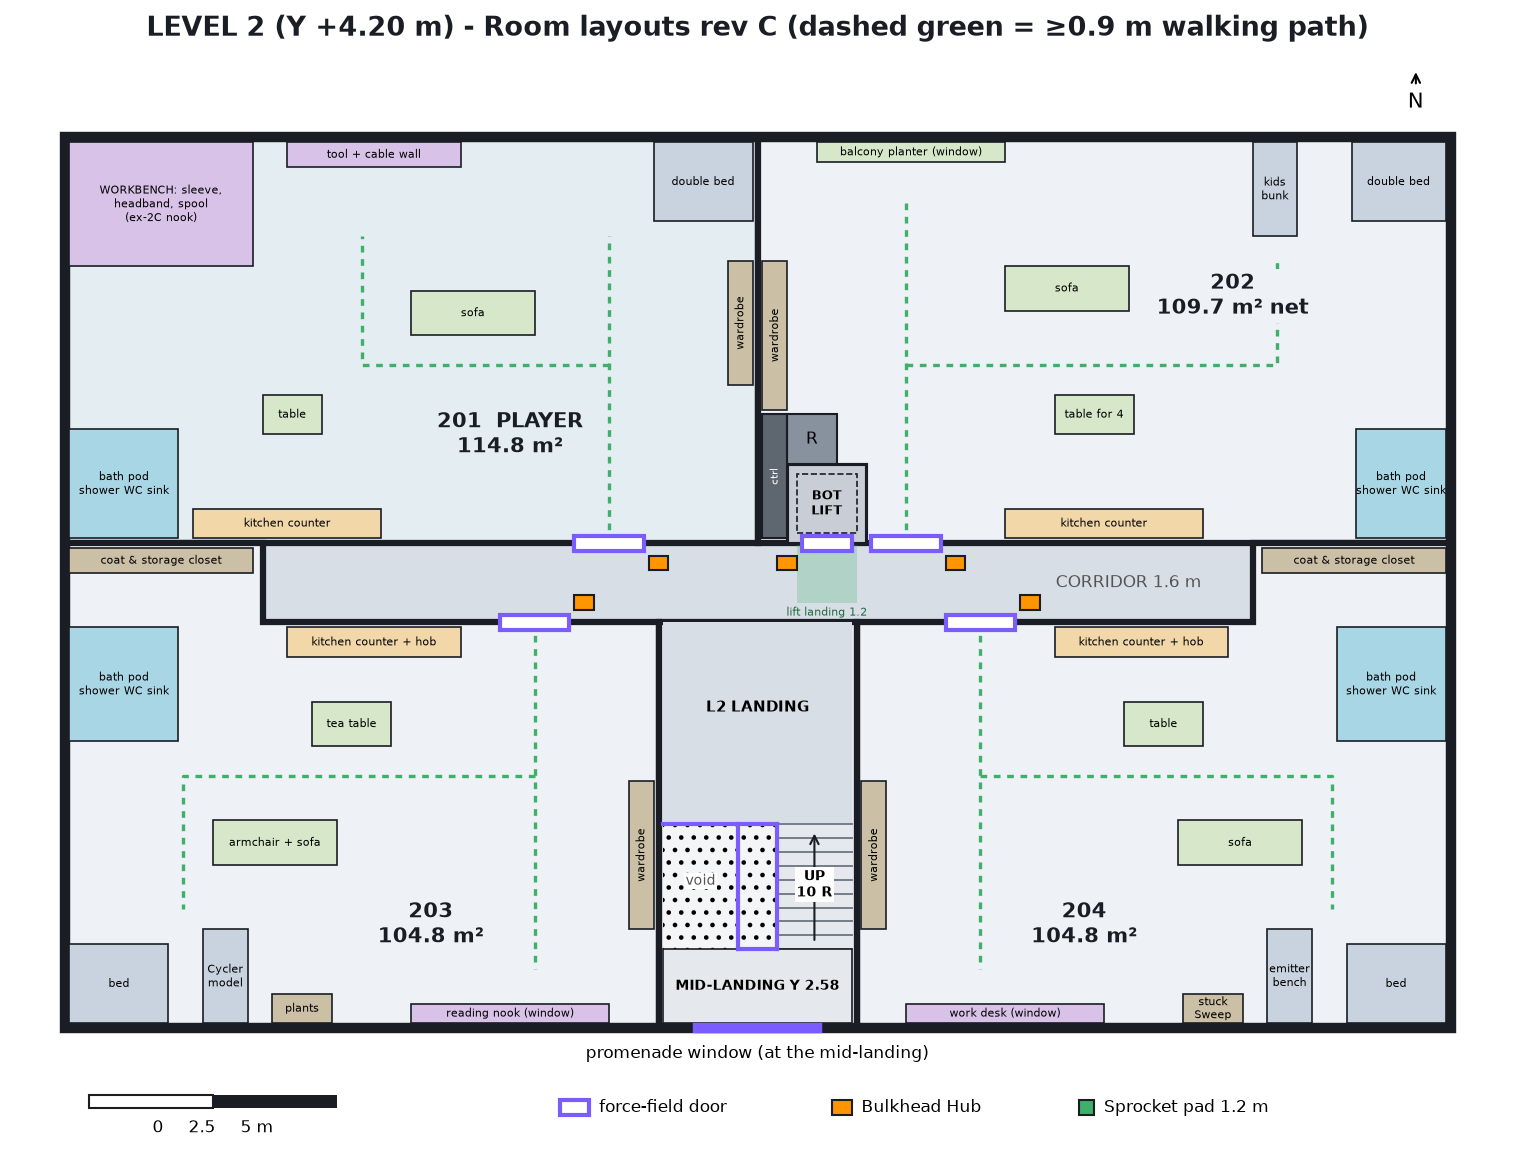
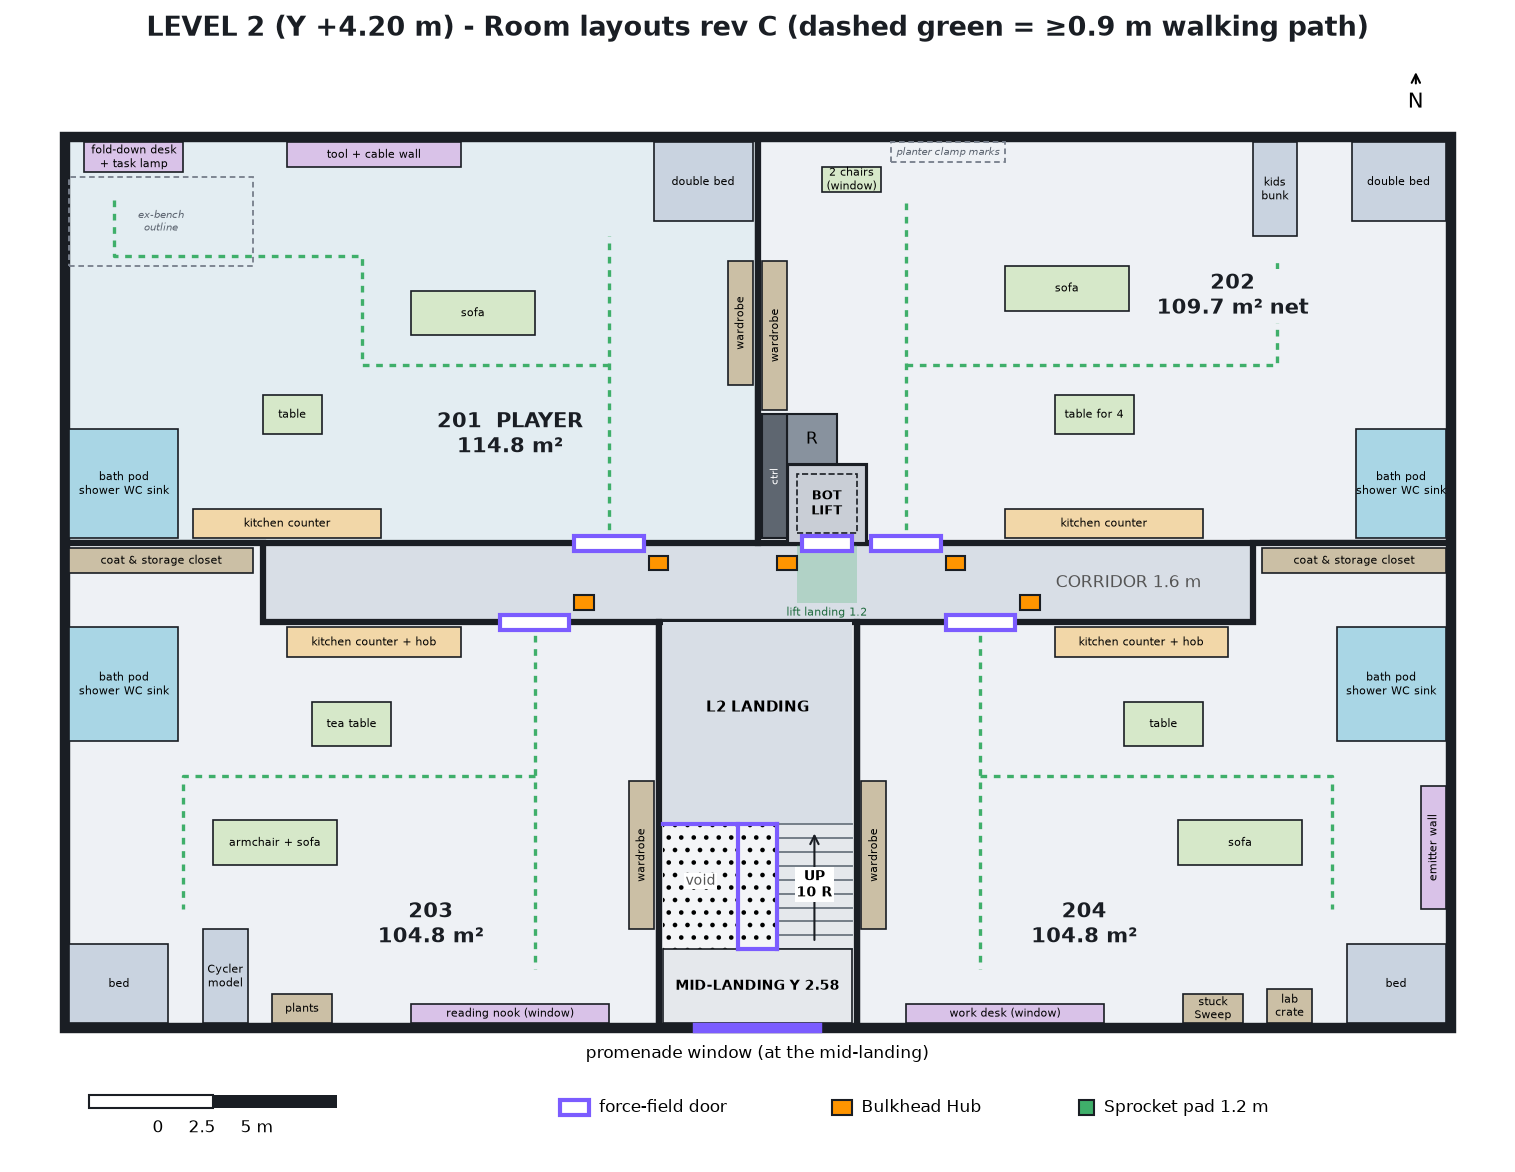
design: rev C.1 (pending Jared) - lab items out of 104/201/204, planter out of 103/202, stand-ins + removal storytelling, Tiered Steps exterior fit QC

diff --git a/design/residential_roomlayout_rev_c.py b/design/residential_roomlayout_rev_c.py
@@ -5,6 +5,9 @@ C={"bed":"#C9D3E0","kit":"#F2D7A8","bath":"#A9D6E5","sto":"#CBBFA5","work":"#D9C
 def F(x0,z0,x1,z1,lab,k): return (x0,z0,x1,z1,lab,k)
 def furnish(ax,items,paths):
     for x0,z0,x1,z1,lab,k in items:
+        if k=="ghost":  # floor decal only (dust outline / clamp marks): drawn dashed, not an obstacle in QC
+            ax.add_patch(Rectangle((x0,z0),x1-x0,z1-z0,fc="none",ec="#7A828E",lw=0.9,ls=(0,(3,2)),zorder=4))
+            ax.text((x0+x1)/2,(z0+z1)/2,lab,ha="center",va="center",fontsize=5,style="italic",color="#5A626E",zorder=7); continue
         ax.add_patch(Rectangle((x0,z0),x1-x0,z1-z0,fc=C[k],ec="#1A1E24",lw=0.8,zorder=4))
         rot=90 if (x1-x0)<0.7 and (z1-z0)>(x1-x0) else 0
         ax.text((x0+x1)/2,(z0+z1)/2,lab.replace("-\n","").replace("\n"," ") if rot else lab,ha="center",va="center",fontsize=5.2,zorder=7,rotation=rot)
@@ -13,16 +16,19 @@ def furnish(ax,items,paths):
 def mx(items): return [(-x1,z0,-x0,z1,l,k) for x0,z0,x1,z1,l,k in items]
 def mp(ps): return [[(-x,z) for x,z in p] for p in ps]
 def SW(bed2,bunk,bin_,window,sofa,table):  # south-west unit template (103/203), mirrored for 104/204
-    return [F(-13.9,0.2,-10.2,0.7,"coat & storage closet","sto"),
+    g=lambda l,k: (l[1:],"ghost") if l and l[0]=="~" else (l,k)
+    it=[F(-13.9,0.2,-10.2,0.7,"coat & storage closet","sto"),
             F(-13.9,-3.2,-11.7,-0.9,"bath pod\nshower WC sink","bath"),
             F(-9.5,-1.5,-6,-0.9,"kitchen counter + hob","kit"),
             F(-9,-3.3,-7.4,-2.4,table,"live"),
             F(-11,-5.7,-8.5,-4.8,sofa,"live"),
             F(-13.9,-8.9,-11.9,-7.3,bed2,"bed"),
-            F(-11.2,-8.9,-10.3,-7.0,bunk,"bed"),
+            F(-11.2,-8.9,-10.3,-7.0,*g(bunk,"bed")),
             F(-9.8,-8.9,-8.6,-8.3,bin_,"sto"),
-            F(-7,-8.9,-3,-8.5,window,"work"),
+            F(-7,-8.9,-3,-8.5,*g(window,"work")),
             F(-2.6,-7,-2.1,-4,"wardrobe","sto")]
+    it[4]=F(-11,-5.7,-8.5,-4.8,*g(sofa,"live"))
+    return [f for f in it if f[4] is not None]
 SWP=[[(-4.5,-0.8),(-4.5,-7.8)],[(-4.5,-3.9),(-11.6,-3.9),(-11.6,-6.6)]]
 L1=([F(-13.9,0.9,-11.7,3.1,"bath pod\nshower WC sink","bath"),F(-11.4,0.9,-8,1.5,"kitchen counter","kit"),
      F(-10.5,3,-9.3,3.8,"table","live"),F(-11,5,-8.5,5.9,"sofa","live"),F(-5.1,4,-4.6,7,"ward-\nrobe","sto"),
@@ -36,19 +42,19 @@ L1=([F(-13.9,0.9,-11.7,3.1,"bath pod\nshower WC sink","bath"),F(-11.4,0.9,-8,1.5
      # 102 (K4 elder)
      F(12.1,0.9,13.9,3.1,"bath pod\nshower WC sink","bath"),F(9,0.9,11.8,1.5,"kitchen counter","kit"),F(9.6,3,10.8,3.8,"tea table","live"),
      F(9,6,10,7,"reading\nchair","live"),F(10.3,6,11,6.7,"plants","live"),F(6.1,5,6.6,7.5,"suit\nhook +\nstorage","sto"),F(12,7.3,13.9,8.9,"double bed","bed")]
-    +SW("double bed","kids\nbunk","toy bin","hydro planter (window)","sofa","table for 4")
-    +mx(SW("bed","speci-\nmen\nshelf","tele-\nscope","desk + data slates (window)","lab bench","table"))+[F(10.2,0.2,13.9,0.7,"coat & storage closet","sto")][0:0],
+    +SW("double bed","kids\nbunk","toy bin","~planter clamp marks + toy drift","sofa","table for 4")
+    +mx(SW("bed","~shelf\nghost","tele-\nscope","desk + data slates (window)","~dust outline\n(ex lab bench)","table"))+[F(7.4,-8.9,8.4,-8.3,"lab\ncrate","sto")]+[F(10.2,0.2,13.9,0.7,"coat & storage closet","sto")][0:0],
     [[(-6.5,0.8),(-6.5,7.5)],[(-6.5,4.4),(-11.5,4.4),(-11.5,7)],[(-1.8,0.8),(-1.8,8.0)],[(3.2,0.8),(3.2,8.6)],[(8,0.8),(8,8.4)],[(8,4.4),(11.5,4.4),(11.5,7)]]+SWP+mp(SWP))
 L2=([F(-13.9,0.9,-11.7,3.1,"bath pod\nshower WC sink","bath"),F(-11.4,0.9,-7.6,1.5,"kitchen counter","kit"),F(-10,3,-8.8,3.8,"table","live"),
-     F(-13.9,6.4,-10.2,8.9,"WORKBENCH: sleeve,\nheadband, spool\n(ex-2C nook)","work"),F(-9.5,8.4,-6,8.9,"tool + cable wall","work"),
+     F(-13.9,6.4,-10.2,8.2,"ex-bench\noutline","ghost"),F(-13.6,8.3,-11.6,8.9,"fold-down desk\n+ task lamp","work"),F(-9.5,8.4,-6,8.9,"tool + cable wall","work"),
      F(-7,5,-4.5,5.9,"sofa","live"),F(-0.6,4,-0.1,6.5,"ward-\nrobe","sto"),F(-2.1,7.3,-0.1,8.9,"double bed","bed"),
      # 202 (K2 family)
      F(12.1,0.9,13.9,3.1,"bath pod\nshower WC sink","bath"),F(5,0.9,9,1.5,"kitchen counter","kit"),F(6,3,7.6,3.8,"table for 4","live"),
      F(5,5.5,7.5,6.4,"sofa","live"),F(0.1,3.5,0.6,6.5,"ward-\nrobe","sto"),F(12,7.3,13.9,8.9,"double bed","bed"),
-     F(10,7,10.9,8.9,"kids\nbunk","bed"),F(1.2,8.5,5,8.9,"balcony planter (window)","live")]
+     F(10,7,10.9,8.9,"kids\nbunk","bed"),F(2.7,8.5,5,8.9,"planter clamp marks","ghost"),F(1.3,7.9,2.5,8.4,"2 chairs\n(window)","live")]
     +SW("bed","Cycler\nmodel","plants","reading nook (window)","armchair + sofa","tea table")
-    +mx(SW("bed","emitter\nbench","stuck\nSweep","work desk (window)","sofa","table")),
-    [[(-3,0.8),(-3,7)],[(-3,4.4),(-8,4.4),(-8,7)],[(3,0.8),(3,7.8)],[(3,4.4),(10.5,4.4),(10.5,6.6)]]+SWP+mp(SWP))
+    +mx(SW("bed",None,"stuck\nSweep","work desk (window)","sofa","table"))+[F(10.3,-8.9,11.2,-8.2,"lab\ncrate","sto"),F(13.4,-6.6,13.9,-4.1,"emitter wall","work")],
+    [[(-3,0.8),(-3,7)],[(-3,4.4),(-8,4.4),(-8,6.6),(-13.0,6.6),(-13.0,7.8)],[(3,0.8),(3,7.8)],[(3,4.4),(10.5,4.4),(10.5,6.6)]]+SWP+mp(SWP))
 src=open("residential_floorplan_rev_c.py").read()
 src=src.replace("residential_floorplan_rev_c_L","residential_roomlayout_rev_c_L").replace("Residential rev C","Room layouts rev C (dashed green = ≥0.9 m walking path)")
 src=src.replace("def ex1(ax):\n","def ex1(ax):\n    furnish(ax,*L1)\n").replace("def ex2(ax):\n","def ex2(ax):\n    furnish(ax,*L2)\n")
@@ -59,7 +65,7 @@ exec(src)
 
 # ---- QC (reuses the stair-core approach): furniture/fixture overlaps, 0.9 m paths, door zones, lift landing, egress lane ----
 def ov(a,b): return a[1]<b[2]-1e-9 and b[1]<a[2]-1e-9 and a[3]<b[4]-1e-9 and b[3]<a[4]-1e-9
-def rects(items,objs): return [(f[4].split("\n")[0],min(f[0],f[2]),max(f[0],f[2]),min(f[1],f[3]),max(f[1],f[3])) for f in items]+list(objs)
+def rects(items,objs): return [(f[4].split("\n")[0],min(f[0],f[2]),max(f[0],f[2]),min(f[1],f[3]),max(f[1],f[3])) for f in items if f[5]!="ghost"]+list(objs)
 def dzones(doors):
     out=[]
     for x,z,w,_ in doors:
@@ -89,3 +95,5 @@ for lvl,(items,paths),objs,doors in (("L1",L1,OBJ1,D1),("L2",L2,OBJ2,D2)):
     QC.append((f"{lvl} 0.9 m walk paths blocked",hits))
 for q in QC: print("QC:",q)
 bad=[k for k,v in QC if v]; assert not bad, ("QC failed",bad)
+import shutil  # rev C.1 approval copies (main PNGs are overwritten too)
+for l in ("L1","L2"): shutil.copy(f"residential_roomlayout_rev_c_{l}.png",f"residential_roomlayout_rev_c_v2_{l}.png")

diff --git a/design/residential_exterior_tiered_steps_fit.py b/design/residential_exterior_tiered_steps_fit.py
@@ -1,0 +1,38 @@
+# Tiered Steps planter fit check against the approved exterior v1.2 geometry (Vance, Oct 29 2026). Design QC only; no PNG.
+# Rook's glb: godot/assets/models/hydro_planter_tiered_exterior.glb = 4.0 W x 0.70 H x 0.41 D (TS-4). TS-2 = 2.0 m cut-down variant (same troughs).
+# Re-runs every exterior v1.2 QC check with the masking planters + hydro beds + W sidewalk planters swapped for Tiered Steps.
+import math
+L=open("residential_exterior_plan_v1.py").read().split("\n")
+src="\n".join(L[:89])   # geometry + QC + assert, stops before plotting
+D=0.41; GAP=0.4
+S_W=[(-13.8,4),(-9.4,4),(-5.0,2)]                       # S wall west run -13.8..-3.0 (same extent as v1.2)
+S_E=[(3.0,2),(5.4,4),(9.8,4)]                           # S wall east run 3.0..13.8
+N_W=[(-13.8,4),(-9.6,4),(-5.4,4)]                       # N wall west run -13.8..-1.4 (0.2 gaps)
+N_E=[(8.0,4),(12.0,2)]                                  # N wall east run 8.0..14.0 (butted, reads as one 6 m bed)
+mask="\n".join([f"for x0,w in {S_W+S_E}: O.append(('planter S TS-'+str(w),x0,x0+w,-9.1-{D},-9.1,False))",
+                f"for x0,w in {N_W+N_E}: O.append(('planter N TS-'+str(w),x0,x0+w,9.1,9.1+{D},False))"])
+src=src.replace(L[26],mask).replace(L[27],"")
+# W sidewalk hydro planters: one TS-4 each, length along Z, back (high tier) to the Spin St W kerb at X -16.8
+src=src.replace(L[30],f"for z0 in (-7,-2,3): O.append(('hydro planter W TS-4',-16.8,-16.8+{D},z0,z0+4,False))")
+# hydro co-op beds: back-to-back TS pair (2 x 0.41 + 0.08 spine = 0.9) x (TS-4 + TS-4 + TS-2 = 10.0 m), same footprint as v1.2
+src=src.replace("if n.startswith(\"planter\") or n==\"hydro planter W\"","if n.startswith(\"planter\") or n.startswith(\"hydro planter W\")")
+exec(src)
+X=[]
+mk=[o for o in O if o[0].startswith("planter")]
+X.append(("planter height masks 0.22 m plinth (0.70 m)",[] if 0.70>=0.22 else ["low"]))
+for wall,zs in (("S",-9),("N",9)):
+    runs=sorted((o[1],o[2]) for o in mk if o[0].startswith("planter "+wall))
+    cov=sum(b-a for a,b in runs); X.append((f"{wall} wall plinth coverage {cov:.1f} m of 28 m",[]))
+ramps=[o for o in O if o[0].startswith("ramp")]
+cl=min(min(abs(p[1]-r[2]),abs(r[1]-p[2])) for p in mk for r in ramps if (p[3]<0)==(r[3]<0))
+X.append((f"planter clearance to ramps {cl:.2f} m (>=0.3)",[] if cl>=0.3 else [cl]))
+beds=sorted(o[3] for o in O if o[0]=="hydro bed"); ais=[round(beds[i+1]-(beds[i]+0.9),2) for i in range(len(beds)-1)]
+X.append((f"hydro aisles {ais} m (>=1.1)",[a for a in ais if a<1.1-1e-9]))
+X.append(("hydro bed = 2 x 0.41 + 0.08 spine fits 0.9",[] if 2*D+0.08<=0.9+1e-9 else ["deep"]))
+X.append(("hydro bed length TS-4+TS-4+TS-2 = 10.0 m fits X -13..-3",[] if 4+4+2<=10 else ["long"]))
+sag=4.0**2/(8*185.5); X.append((f"curvature sagitta over 4 m along Z {sag*1000:.1f} mm (feet take-up 25 mm)",[] if sag<0.025 else [sag]))
+wsw=min(-14-(-16.8+D),99); X.append((f"W sidewalk clear width beside TS planters {wsw:.2f} m (>=0.9)",[] if wsw>=0.9 else [wsw]))
+for q in X: print("FIT:",q)
+assert not [k for k,v in X if v], "fit failed"
+n4=sum(w==4 for _,w in S_W+S_E+N_W+N_E); n2=sum(w==2 for _,w in S_W+S_E+N_W+N_E)
+print(f"masking: {n4} x TS-4 + {n2} x TS-2; hydro beds: 3 x (4 TS-4 + 2 TS-2) = 12 TS-4 + 6 TS-2; W sidewalk: 3 TS-4")

diff --git a/design/residential_asset_list_rev_c.md b/design/residential_asset_list_rev_c.md
@@ -56,9 +56,9 @@ Sizes are rough W × D × H in meters.
 ## F. Workstations and story props
 | # | Item | Units | Qty | Size |
 |---|---|---|---|---|
-| 25 | Tool wall panel (pegboard, cable variant) | 101, 201, Maintenance | 3 | 2.5–3.5 × 0.5 × 2.0 |
+| 25 | Tool wall panel (pegboard, cable variant). C.1: +1 in 204 as the 'emitter wall' (2.5 m on the E wall; one loose door emitter strip reused from `rfid_forcefield_door.glb` + the rail task lamp) | 101, 201, 204, Maintenance | 4 | 2.5–3.5 × 0.5 × 2.0 |
 | 26 | ~~Apartment workbench~~ (level blockout `Apartment_Workbench`) MOVED TO LAB/WORKSHOP BUILDING (Jared, Oct 29): removed from 201; not modeled now, waits for that building | ~~201~~ lab/workshop building | — | 3.7 × 2.5 nook |
-| 27 | Task lamp (level blockout `Apt201_Workbench_TaskLight`) | 201, 104, 204 | 3 (QTY UNDER REVIEW: the 201 workbench light and possibly 204 left with #26/#31; model unchanged) | 0.2 × 0.2 × 0.5 |
+| 27 | Task lamp (level blockout `Apt201_Workbench_TaskLight`) | 201, 104, 204 | 3 (C.1 resolved: 201 on the #52 fold-down desk, 104 on the window desk, 204 Rail_Slider on the emitter wall; `godot/assets/models/task_lamp_rail_slider.glb`) | 0.2 × 0.2 × 0.5 |
 | 28 | Window desk + data slates | 104, 204 | 2 | 4.0 × 0.4 × 0.75 |
 | 29 | ~~Specimen shelf~~ MOVED TO LAB BUILDING (Jared, Oct 29): removed from 104; Open Rack is a future science/lab-building asset, `godot/assets/models/specimen_rack_open_lab.glb` | ~~104~~ lab building | — | 0.9 × 0.63 × 1.9 |
 | 30 | Telescope | 104 | 1 | 0.6 × 0.6 × 1.5 |
@@ -67,6 +67,9 @@ Sizes are rough W × D × H in meters.
 | 33 | ~~Hydro planter (window/balcony)~~ MOVED TO EXTERIOR (Jared, Oct 29): removed from 103/202; Tiered Steps planter now serves the hydro co-op / sidewalk planters, `godot/assets/models/hydro_planter_tiered_exterior.glb` | ~~103, 202~~ exterior | — | 4.0 × 0.4 × 0.7 |
 | 34 | Potted plants set (Jared's final pick, Oct 29): `godot/assets/models/potted_plants_rail_cradles.glb` (default 102) and `godot/assets/models/potted_plants_pocket_column.glb` (default 203). SUPERSEDED, kept unplaced: `potted_plants_moulded_trio.glb`, `potted_plants_shared_tray.glb` | 102, 203 | 2 | 1.20 × 0.55 × 0.25 (wall rail) / 0.90 × 0.78 × 0.41 |
 | 35 | Toy chest + rail bins + toy kit (Jared combined iter 1 + 3, Oct 29): `godot/assets/models/toy_chest_rail_bins.glb` | 103 | 1 | 1.2 × 0.6 × 0.5 chest; bins on a 0.90 m rail to 1.21 m |
+| 52 | Fold-down wall desk + pegboard strip (C.1 stand-in for #26; keeps the level node name `Apartment_Workbench`, the 4 pickups, the diagnostic terminal and the CUE-001 scorch/tally/pegboard decals so the Stage 1 objective still works) | 201 N wall X -13.6..-11.6 | 1 | 2.0 × 0.6 (deployed) × 0.75, folded 0.15 |
+| 53 | Lab crate, labelled for the future lab/workshop (violet D-03 lab glyph, wordless; 204 lid ajar showing emitter parts). Same mesh as exterior #48 crate | 104, 204 | 2 | 1.0 × 0.6 × 0.5 / 0.9 × 0.7 × 0.5 |
+| 54 | Removal decal set (dust outline of the lab bench and workbench, shelf ghost + wall anchor holes, planter clamp-bolt marks + water ring) | 104, 201, 103, 202 | 1 set | decals |
 | 36 | Small clutter kit (meal tray, cups, cables, photo frames as decals) | 101, 102, 104, 202 | 1 kit | small |
 
 
@@ -98,13 +101,15 @@ Sizes are rough W × D × H in meters.
 | 49 | ~~Sprocket~~ `godot/assets/models/char_bot_r2_05_livery_01_sprocket.glb` | Maintenance | 1 | 0.78 × 0.77 × 1.03 |
 | 50 | ~~Sweep (stuck)~~ `godot/assets/models/char_bot_r2_05_livery_02_sweep.glb` | 204 | 1 | same |
 
-## Counts
-- **Total items: 51** (#51 bot lift added in stair core v1.1). Already modeled as glb: **9** (#1, 2, 44–50). Still to model: **42**, of which 4 exist only as level blockouts (#26, 27, 40, 42).
+## Counts (rev C.1, pending Jared approval)
+- **Item numbers 1–54.** Moved out (kept, not deleted): **5**. #17, #26, #31 go to the future lab/workshop building; #29 goes to the lab building (Open Rack glb exists); #33 goes to the exterior (Tiered Steps glb exists). New in C.1: **3** (#52 fold-down desk, #53 lab crate, #54 removal decals).
+- **Active in the residential building: 49.** Already modeled as glb in `godot/assets/models/` (re-checked Oct 29, 43 glb files): **31** (#1–5, 7–13, 15, 16, 19–22, 27, 28, 34, 35, 37, 44–51). Some of these rows are not struck through above yet.
+- **Still to model: 18** (#6, 14, 18, 23, 24, 25, 30, 32, 36, 38–43, 52–54). Of these, #40 and #42 exist as level blockouts.
 
-## Suggested modeling order (most reused first)
-1. Dining chair (20), window cards (8), bath pod (8), kitchen counter (8), double bed (8)
-2. Wardrobe (7), sofa (6), the three table variants (8 total), coat closet (4), washer/dryer stack (4)
-3. Repeated small items: tool wall (3), task lamp (3), floor pad (3), coupler arm (3)
-4. Building fixtures: stair set, rail, skylight, riser, bot lift (#51)
-5. Pairs: kids' bunk, armchair, window desk, plants, tea set
-6. Singles and story pieces: workbench, substation, lockers, laundry counter/bench, spares shelf, suit storage, lab bench, specimen shelf, telescope, emitter bench, Cycler model, toy bin, reading nook, clutter kit
+## Suggested modeling order (remaining items, most reused first)
+1. Window cards #6 (8), lit by the existing glbs
+2. Tool wall #25 (4), floor pad #40 (3), coupler arm #41 (3), Cycler route model #32 (iterations exist)
+3. Fold-down desk #52 (needed for the 201 objective before the old workbench blockout is swapped), lab crate #53 (2, shared with exterior #48), removal decals #54
+4. Pairs: tea set #14
+5. Singles: suit storage #23, lockers #24, telescope #30, clutter kit #36, laundry counter/bench #38–39, substation #42, spares shelf #43, reading nook #18
+6. Lab/workshop building (deferred, not residential): lab bench #17, workbench #26, specimen rack #29 (glb done), emitter repair bench #31

diff --git a/design/residential_exterior_asset_list_v1.md b/design/residential_exterior_asset_list_v1.md
@@ -43,16 +43,16 @@ Source: the approved `residential_exterior_plan_v1.md` and the **v1.1 QC plan** 
 ## E. Plinth masking (approved: hidden)
 | # | Item | Where | Qty | Size | Tris (each) |
 |---|---|---|---|---|---|
-| 23 | Long masking planter | ±Z walls | 19 | 2.0 × 0.9 × 0.6 | 500 |
+| 23 | Masking planter = **Tiered Steps** (Rook, `godot/assets/models/hydro_planter_tiered_exterior.glb`, 4.0 × 0.41 × 0.70, high tier against the wall). TS-4 modeled; TS-2 is a 2.0 m cut-down variant still to model | ±Z walls: S 2 × (TS-4, TS-4, TS-2) with 0.4 gaps, X -13.8..-3.0 / 3.0..13.8; N-W 3 × TS-4 with 0.2 gaps, X -13.8..-1.4; N-E TS-4 + TS-2 butted, X 8.0..14.0; Z ±9.1..±9.51 | 8 TS-4 + 3 TS-2 | 4.0 / 2.0 × 0.41 × 0.70 | 2,784 / ~1,500 |
 | 24 | Ramp 1:12, 0.22 m rise | Sector-4 exit, service door | 2 | 3.6–4.7 × 2.7 | 250 |
-| 25 | Sidewalk hydro planter (1 patched variant) | west sidewalk | 3 | 1.6 × 4.0 × 0.7 | 800 |
+| 25 | Sidewalk hydro planter = Tiered Steps TS-4, 4 m length along Z, back to the Spin St W kerb (X -16.8..-16.39), 1 patched liner | west sidewalk, z0 -7, -2, 3 | 3 TS-4 | 0.41 × 4.0 × 0.70 | 2,784 |
 
 ## F. Hydro co-op
 | # | Item | Where | Qty | Size | Tris (each) |
 |---|---|---|---|---|---|
-| 26 | Hydro bed trough + liner (1 patched) | Plot N, X -20..-6 | 3 | 14 × 0.9 × 0.7 | 1,500 |
+| 26 | Hydro bed = back-to-back Tiered Steps pair (2 × 0.41 + 0.08 spine = 0.9) × (TS-4 + TS-4 + TS-2 = 10.0 m), 1 patched liner. v1 row said 14 m at X -20..-6, but the v1.2 plan has 10 m at X -13..-3; corrected | hydro co-op, X -13..-3, Z 19.5 / 21.5 / 23.5 | 3 beds = 12 TS-4 + 6 TS-2 | 10.0 × 0.9 × 0.70 | 2,784 / ~1,500 |
 | 27 | Pump + water tank cabinet | hydro co-op | 1 | 1.2 × 0.8 × 1.8 | 1,200 |
-| 28 | Grow-light rack | hydro co-op | 3 | 14 × 0.2 × 2.2 | 700 |
+| 28 | Grow-light rack (length now matches the 10 m beds) | hydro co-op | 3 | 10 × 0.2 × 2.2 | 700 |
 
 ## G. Memorial nook
 | # | Item | Where | Qty | Size | Tris (each) |
@@ -106,12 +106,13 @@ Source: the approved `residential_exterior_plan_v1.md` and the **v1.1 QC plan** 
 | 55 | ~~Clover (agri bot)~~ `godot/assets/models/char_bot_r2_05_livery_04_clover.glb` | hydro co-op | 1 | same as Sprocket | — |
 
 ## Counts
-- **Total items: 55.** Already modeled as glb: **5** (#1, 2, 53, 54, 55). Still to model: **50**.
+- **Total items: 55.** Already modeled as glb: **5** (#1, 2, 53, 54, 55), plus the Tiered Steps TS-4 module that #23, #25 and #26 now use. Still to model: **50**; for #23, #25 and #26 this is only the TS-2 cut-down variant and the patched liner.
+- **Tiered Steps tri impact (Oct 29):** planters + beds rise from about 16.4k to about 77k tris (23 TS-4 × 2,784 + 9 TS-2 × ~1,500), so the ring goes from **~209k to ~270k** LOD0. This needs a TS LOD1 (~900 tris, foliage merged) beyond 20 m to keep the ≤ 60k on-screen target. Fit QC: `residential_exterior_tiered_steps_fit.py`.
 - The ring totals about **209k** tris (LOD0, all placed instances). The tram vehicle is 18k of that, and the 5 neighbour facades are 20.5k together. With instancing plus LOD1 beyond 20 m, the on-screen target is ≤ 60k.
 
 ## Suggested modeling order (most reused first)
-1. Curb segment (68), Residential facade panel (60), Canal edge module (47), Curved road segment (34), Street light pole (30), Exterior window unit (24), Flat road / lane segment (20), Long masking planter (19), Bollard (12), Tram rail module (10), Bench (8), Accessible kerb ramp (8)
+1. Curb segment (68), Residential facade panel (60), Canal edge module (47), Curved road segment (34), Street light pole (30), Exterior window unit (24), Flat road / lane segment (20), Tiered Steps TS-2 variant (9; TS-4 done), Bollard (12), Tram rail module (10), Bench (8), Accessible kerb ramp (8)
 2. Mid-reuse kit: catenary mast (5), bins (6), plaza bollard lights (6), tram platform kerb (6), wayfinding totems and street blades (4 each)
 3. Hero pieces: tram stop shelter, tram vehicle, the 5 neighbour facades, roof parapet, door canopies
-4. Hydro co-op and planters: sidewalk planters, beds, grow racks, pump cabinet
+4. Hydro co-op and planters: Tiered Steps TS-2 variant + LOD1 + patched liner (TS-4 done), grow racks, pump cabinet
 5. Story singles: memorial nook set, shelter sleeper set, notice board, hand cart, exterior Sprocket pad/apron, decal sets

diff --git a/design/residential_apartment_layout_v2.md b/design/residential_apartment_layout_v2.md
@@ -132,3 +132,12 @@ Shell, corridor and stair core: ≤ 12,000 tris per floor.
 - `design/residential_floorplan_rev_c_L2.png`
 (generated by `design/residential_floorplan_rev_c.py`)
 - Room layouts: `design/residential_roomlayout_rev_c_L1.png`, `design/residential_roomlayout_rev_c_L2.png` (generated by `design/residential_roomlayout_rev_c.py`)
+
+## Rev C.1 changes, pending Jared approval (Oct 29 2026)
+Plans: `residential_roomlayout_rev_c_v2_L1.png` / `_v2_L2.png`. The main `residential_roomlayout_rev_c_L1/L2.png` are overwritten with the same images. The assert QC passes: no overlaps, door zones / lift landing / egress lane clear, 0.9 m paths.
+- **Out of the building** (kept as assets, not deleted): #17 lab bench (104), #29 specimen shelf (104), #31 emitter repair bench (204) and #26 workbench (201) go to the future lab/workshop building. Hydro planter #33 (103, 202) goes outdoors as Rook's Tiered Steps (exterior #23/#25/#26).
+- **104 (K3 Researcher):** the lab bench footprint is left open as a dust outline. A wall-anchor "shelf ghost" marks where the shelf stood, and a lab crate sits between the window desk and the telescope. The flare-monitor desk beat is unchanged.
+- **201 (player):** the 2.0 m fold-down wall desk + task lamp on the N wall is the stand-in. It keeps the Stage 1 pickups, the terminal and the CUE-001 decals. The old 3.7 × 2.5 nook is left open as an "ex-bench outline", with a 0.9 m path to the desk.
+- **204 (K1 Shift Tech, mirrored):** an "emitter wall" (tool wall #25 + one loose door emitter strip + rail task lamp) on the E wall keeps the door-system teaching beat. A lab crate with its lid ajar (emitter parts) sits in the old bench slot beside the stuck Sweep.
+- **103 (K2):** the window strip is left open: planter clamp-bolt marks plus the toy drift against the glass (the Coriolis tell, now unobstructed).
+- **202 (K2 mirrored):** the planter clamp marks remain; two dining chairs are pulled to the window (the family watched the flare). The taped drawing of the player is on the glass.
